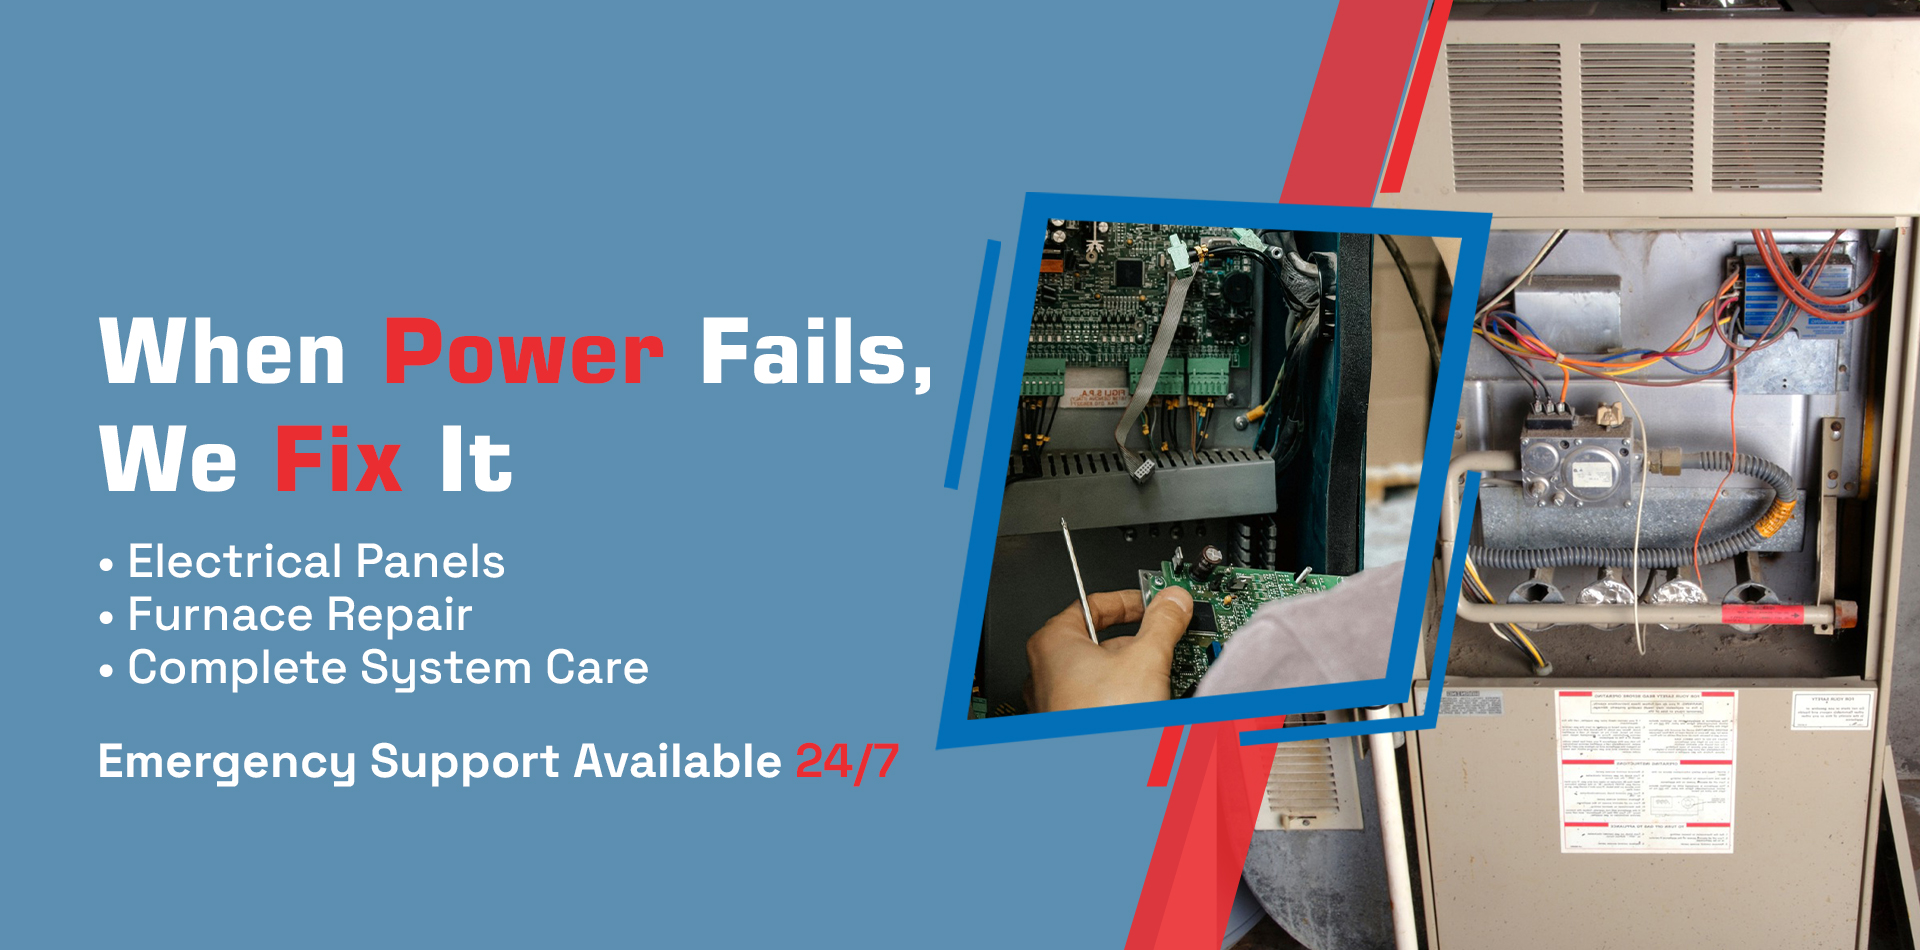
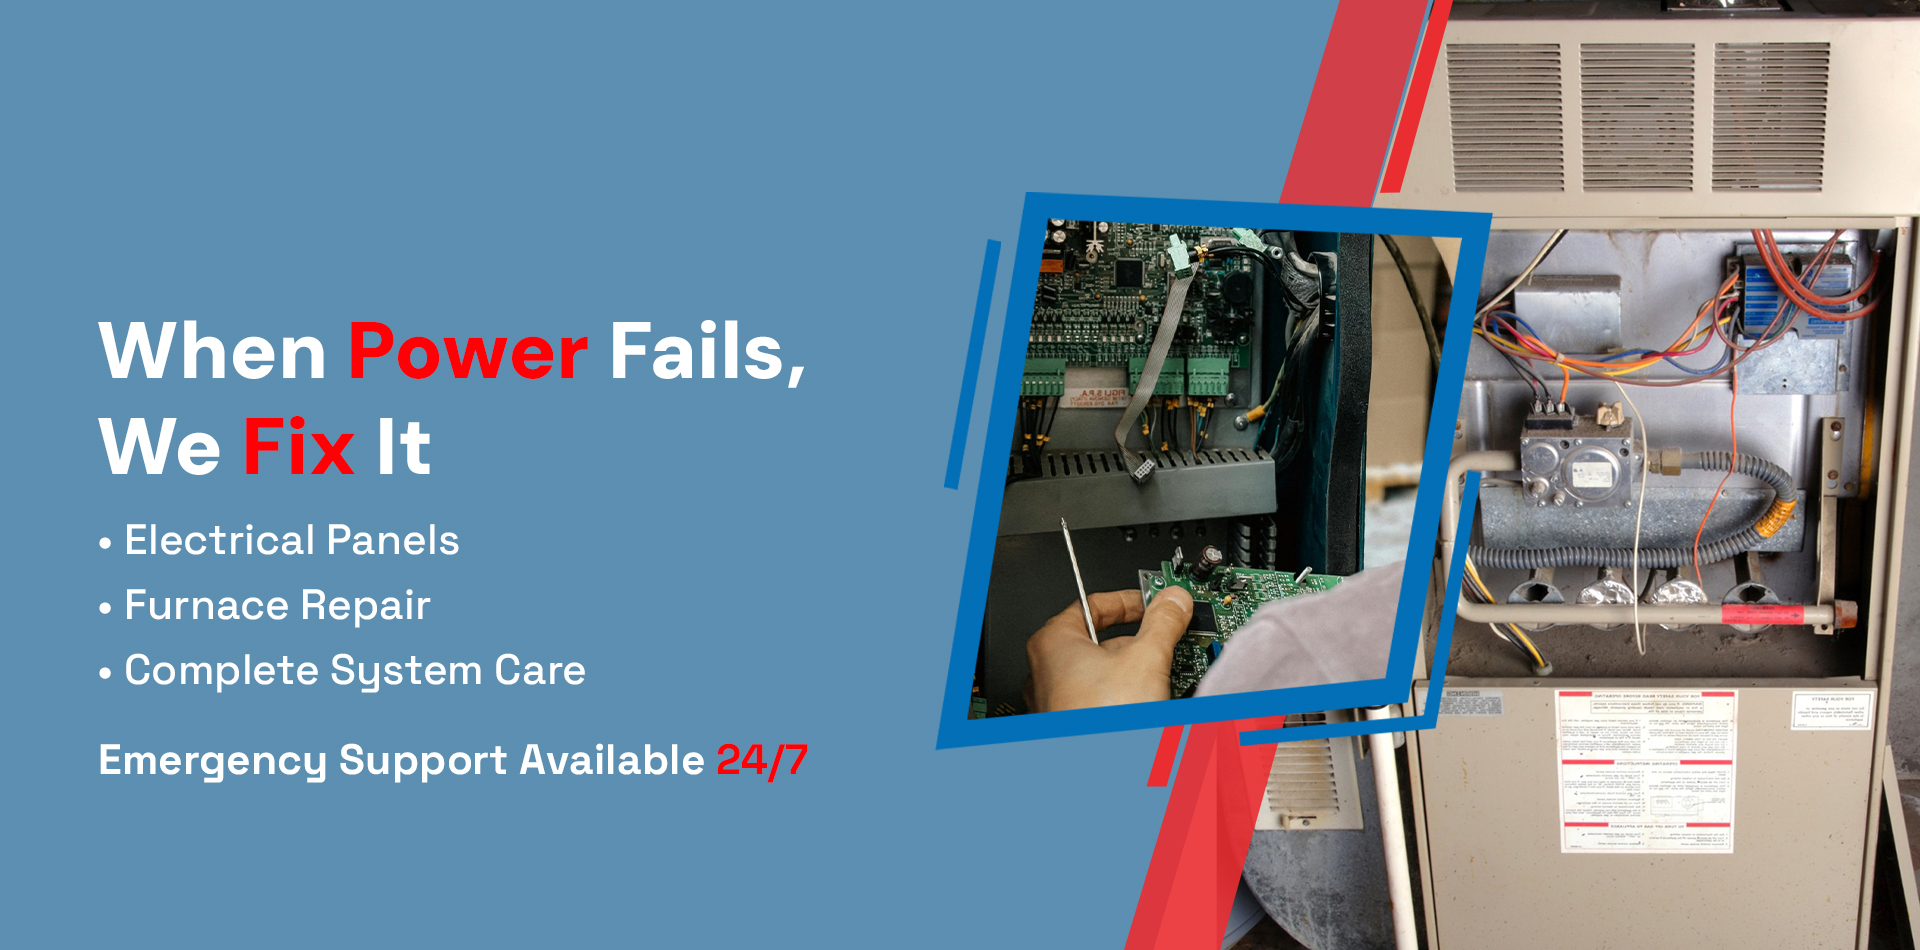
changes

Changed region(s): [[0.0312, 0.3358, 0.5, 0.5189], [0.0625, 0.5495, 0.3438, 0.7326], [0.0312, 0.7632, 0.4688, 0.8242]]

diff --git a/index.html b/index.html
@@ -105,6 +105,8 @@
   <div class="carousel-indicators">
     <button type="button" data-bs-target="#carouselExampleIndicators" data-bs-slide-to="0" class="active" aria-current="true" aria-label="Slide 1"></button>
     <button type="button" data-bs-target="#carouselExampleIndicators" data-bs-slide-to="1" aria-label="Slide 2"></button>
+    <button type="button" data-bs-target="#carouselExampleIndicators" data-bs-slide-to="2" aria-label="Slide 3"></button>
+    <button type="button" data-bs-target="#carouselExampleIndicators" data-bs-slide-to="3" aria-label="Slide 4"></button>
    
   </div>
   <div class="carousel-inner">
